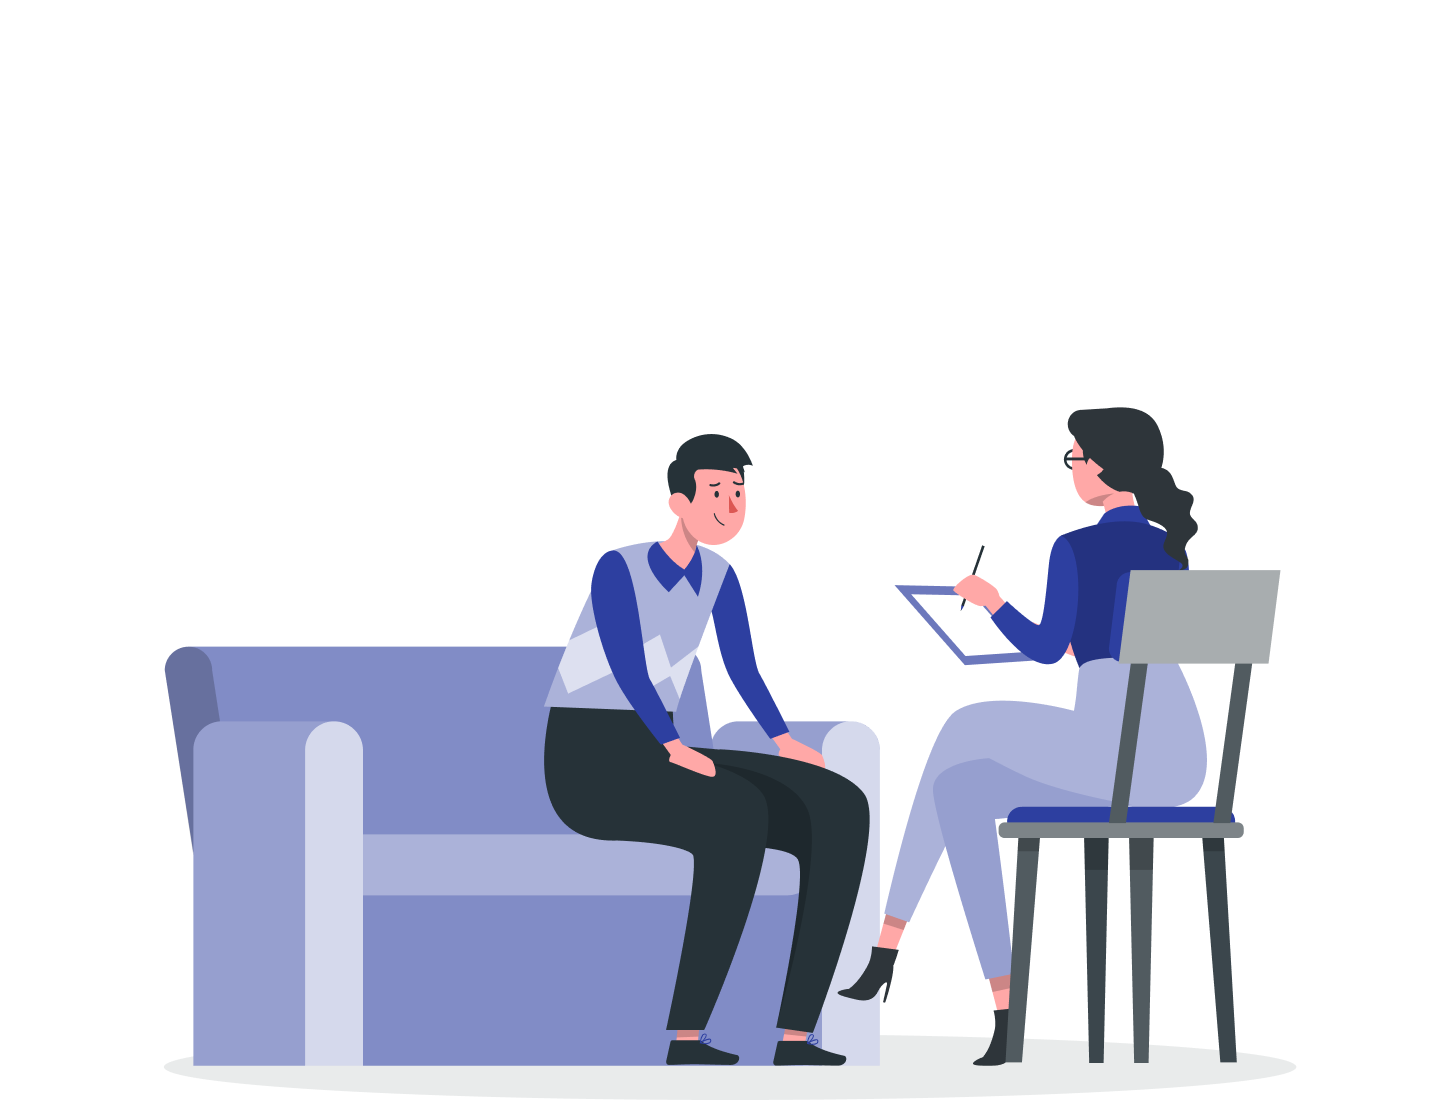
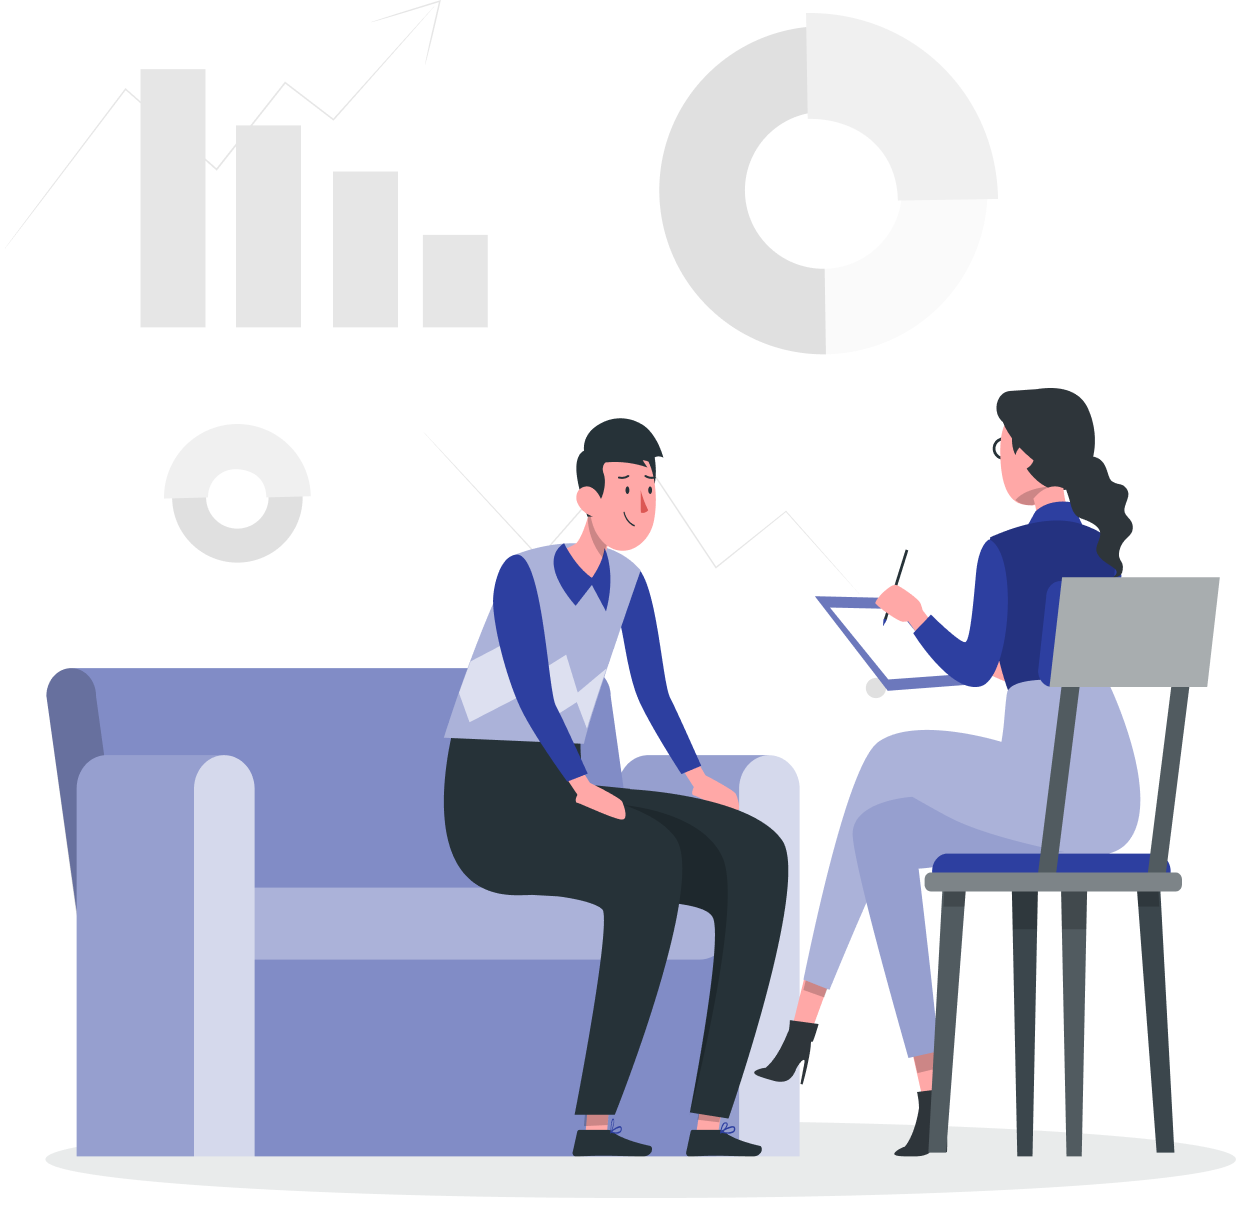
Added skip, next, get started button and dotsindicator to onboarding pages with functionality

diff --git a/lib/screens/onboarding/onboarding_page3.dart b/lib/screens/onboarding/onboarding_page3.dart
@@ -16,54 +16,56 @@ class OnboardingPage3 extends StatelessWidget {
                 height: 101.h,
               ),
               Padding(
-                padding: EdgeInsets.symmetric(vertical: 6.h),
+                padding: EdgeInsets.symmetric(horizontal: 61.w),
                 child: Image.asset(
                   "assets/images/o3.png",
                   height: 280.h,
                 ),
               ),
-              SizedBox(
-                height: 80.h,
-              ),
+              SizedBox(height: 48.h),
               Padding(
                 padding: EdgeInsets.symmetric(horizontal: 144.w),
                 child: Text(
                   "Services",
                   style: TextStyle(
-                      fontFamily: "OpenSans-Hebrew",
+                      fontFamily: 'OpenSans-Hebrew',
                       fontWeight: FontWeight.bold,
                       fontSize: 15.sp),
                 ),
               ),
-              SizedBox(
-                height: 29.h,
-              ),
+              SizedBox(height: 22.h),
               Padding(
-                padding: EdgeInsets.symmetric(horizontal: 30.w),
+                padding: EdgeInsets.symmetric(horizontal: 26.w),
                 child: Text(
-                  "    Provide 360-degree professional\n development for the students through\n Industry & Corporate Exposure, Career\n     Guidance and Work Experience",
-                  style: TextStyle(fontSize: 15.sp),
+                  "          Provide 360-degree professional development for students through Industry\n          Exposure and Career Guidance",
+                  style: TextStyle(
+                    fontSize: 15.sp,
+                    fontFamily: 'OpenSans-Hebrew',
+                  ),
                 ),
               ),
-              SizedBox(
-                height: 64.h,
-              ),
+              SizedBox(height: 135.h),
               Padding(
-                padding: EdgeInsets.symmetric(horizontal: 43.w),
-                child: Container(
-                    width: 274.w,
-                    height: 48.h,
-                    decoration: BoxDecoration(
-                        color: const Color.fromRGBO(57, 73, 160, 1),
-                        borderRadius: BorderRadius.circular(30)),
-                    child: const Center(
-                        child: Text('Get Started',
-                            style: TextStyle(
+                padding: EdgeInsets.only(left: 220.w, top: 45.h),
+                child: InkWell(
+                    onTap: () {},
+                    child: Container(
+                      height: 33.h,
+                      width: 89.w,
+                      decoration: BoxDecoration(
+                          color: const Color.fromRGBO(57, 73, 160, 1),
+                          borderRadius: BorderRadius.circular(10.0)),
+                      child: Center(
+                        child: Text(
+                          "Get Started >",
+                          style: TextStyle(
+                              fontSize: 11.sp,
                               color: Colors.white,
-                              fontWeight: FontWeight.bold,
-                              fontFamily: "OpenSans-Hebrew",
-                            )))),
-              )
+                              fontFamily: "OpenSans-Hebrew"),
+                        ),
+                      ),
+                    )),
+              ),
             ],
           ),
         ),

diff --git a/lib/screens/onboarding/onboarding.dart b/lib/screens/onboarding/onboarding.dart
@@ -1,0 +1,89 @@
+import 'package:ccpc/screens/auth/signup.dart';
+import 'package:ccpc/screens/onboarding/onboarding_page1.dart';
+import 'package:ccpc/screens/onboarding/onboarding_page2.dart';
+import 'package:flutter/material.dart';
+import 'package:flutter_screenutil/flutter_screenutil.dart';
+import 'package:introduction_screen/introduction_screen.dart';
+import 'package:ccpc/screens/onboarding/onboarding_page3.dart';
+
+class OnBoarding extends StatefulWidget {
+  const OnBoarding({Key? key}) : super(key: key);
+
+  @override
+  _OnBoardingState createState() => _OnBoardingState();
+}
+
+class _OnBoardingState extends State<OnBoarding> {
+  PageDecoration getPageDecoration() => PageDecoration(
+        titleTextStyle: TextStyle(
+            fontFamily: 'OpenSans-Hebrew',
+            fontWeight: FontWeight.bold,
+            fontSize: 15.sp),
+        bodyTextStyle: TextStyle(
+          fontSize: 15.sp,
+          fontFamily: 'OpenSans-Hebrew',
+        ),
+        descriptionPadding: const EdgeInsets.all(16).copyWith(bottom: 0),
+        imagePadding: const EdgeInsets.all(5),
+        pageColor: Colors.white,
+      );
+  void goToPage3(context) => Navigator.of(context).pushReplacement(
+        MaterialPageRoute(builder: (_) => const SignupPgae()),
+      );
+  PageController pageController = PageController();
+  @override
+  Widget build(BuildContext context) {
+    return MaterialApp(
+      debugShowCheckedModeBanner: false,
+      home: Scaffold(
+        backgroundColor: Colors.white,
+        body: IntroductionScreen(
+            animationDuration: 200,
+            rawPages: const [
+              OnboardingPage(),
+              OnboardingPage2(),
+              OnboardingPage3(),
+            ],
+            done: Text(
+              "DONE >",
+              style: TextStyle(
+                  fontSize: 12.sp,
+                  color: Colors.black,
+                  fontWeight: FontWeight.bold,
+                  fontFamily: "OpenSans-Hebrew"),
+            ),
+            next: Text(
+              "NEXT >",
+              style: TextStyle(
+                  color: Colors.black,
+                  fontSize: 12.sp,
+                  fontFamily: "OpenSans-Hebrew",
+                  fontWeight: FontWeight.bold),
+            ),
+            showSkipButton: true,
+            showDoneButton: false,
+            showNextButton: true,
+            skip: Text(
+              "SKIP",
+              style: TextStyle(
+                  color: Colors.black,
+                  fontFamily: "OpenSans-Hebrew",
+                  fontWeight: FontWeight.bold,
+                  fontSize: 12.sp),
+            ),
+            skipFlex: 0,
+            nextFlex: 0,
+            onDone: () => goToPage3(context),
+            dotsDecorator: DotsDecorator(
+                spacing: EdgeInsets.symmetric(horizontal: 3.w),
+                color: Colors.grey,
+                activeColor: Colors.black,
+                size: const Size(7, 7),
+                activeSize: const Size(7, 7),
+                activeShape: RoundedRectangleBorder(
+                  borderRadius: BorderRadius.circular(24),
+                ))),
+      ),
+    );
+  }
+}

diff --git a/lib/screens/onboarding/onboarding_page1.dart b/lib/screens/onboarding/onboarding_page1.dart
@@ -1,4 +1,3 @@
-import 'package:ccpc/screens/onboarding/onboarding_page2.dart';
 import 'package:flutter/material.dart';
 import 'package:flutter_screenutil/flutter_screenutil.dart';
 
@@ -35,20 +34,20 @@ class OnboardingPage extends StatelessWidget {
                   ),
                 ),
               ),
-              SizedBox(height: 29.h),
+              SizedBox(height: 22.h),
               Padding(
                 padding: EdgeInsets.symmetric(horizontal: 16.w),
                 child: RichText(
                   text: TextSpan(
                       text:
-                          "An IT & Management Consulting & Advisory \n                 Services company with a \n",
+                          "   An IT & Management Consulting & Advisory \n                    Services company with a \n",
                       style: TextStyle(
                           fontSize: 15.sp,
                           color: Colors.black,
                           fontFamily: 'OpenSans-Hebrew'),
                       children: <TextSpan>[
                         TextSpan(
-                          text: "                            'Social Cause'",
+                          text: "                              'Social Cause'",
                           style: TextStyle(
                               fontFamily: 'OpenSans-Hebrew',
                               fontSize: 15.sp,
@@ -59,50 +58,10 @@ class OnboardingPage extends StatelessWidget {
                       ]),
                 ),
               ),
-              SizedBox(height: 116.h),
-              Padding(
-                padding: EdgeInsets.symmetric(horizontal: 156.w),
-                child: ElevatedButton(
-                  onPressed: () {
-                    Navigator.push(
-                        context, FadeRoute(page: const OnboardingPage2()));
-                  },
-                  child: const Icon(Icons.arrow_forward_ios_rounded,
-                      color: Colors.white),
-                  style: ElevatedButton.styleFrom(
-                    shape: const CircleBorder(),
-                    padding: const EdgeInsets.all(15),
-                    primary: const Color.fromRGBO(57, 73, 160, 1),
-                  ),
-                ),
-              )
             ],
           ),
         ),
       ),
     );
   }
-}
-
-class FadeRoute extends PageRouteBuilder {
-  final Widget page;
-  FadeRoute({required this.page})
-      : super(
-          pageBuilder: (
-            BuildContext context,
-            Animation<double> animation,
-            Animation<double> secondaryAnimation,
-          ) =>
-              page,
-          transitionsBuilder: (
-            BuildContext context,
-            Animation<double> animation,
-            Animation<double> secondaryAnimation,
-            Widget child,
-          ) =>
-              FadeTransition(
-            opacity: animation,
-            child: child,
-          ),
-        );
 }

diff --git a/lib/screens/onboarding/onboarding_page2.dart b/lib/screens/onboarding/onboarding_page2.dart
@@ -1,4 +1,3 @@
-import 'package:ccpc/screens/onboarding/onboarding_page3.dart';
 import 'package:flutter/material.dart';
 import 'package:flutter_screenutil/flutter_screenutil.dart';
 
@@ -23,7 +22,7 @@ class OnboardingPage2 extends StatelessWidget {
                   height: 280.h,
                 ),
               ),
-              SizedBox(height: 64.h),
+              SizedBox(height: 48.h),
               Padding(
                 padding: EdgeInsets.symmetric(horizontal: 153.w),
                 child: Text(
@@ -38,57 +37,17 @@ class OnboardingPage2 extends StatelessWidget {
               Padding(
                 padding: EdgeInsets.symmetric(horizontal: 29.w),
                 child: Text(
-                  "    Helping millions of students for free,\n to get them job/ start-up/ business-ready,\n in time, to save on their 'struggle time' to\n   get a relevant job after their graduation.",
+                  "Helping millions of students for free, to get \n     them job/ business-ready after their\n                            graduation.",
                   style: TextStyle(
                     fontSize: 15.sp,
                     fontFamily: 'OpenSans-Hebrew',
                   ),
                 ),
               ),
-              SizedBox(height: 71.h),
-              Padding(
-                padding: EdgeInsets.symmetric(horizontal: 156.w),
-                child: ElevatedButton(
-                  onPressed: () {
-                    Navigator.push(
-                        context, FadeRoute(page: const OnboardingPage3()));
-                  },
-                  child: const Icon(Icons.arrow_forward_ios_rounded,
-                      color: Colors.white),
-                  style: ElevatedButton.styleFrom(
-                    shape: const CircleBorder(),
-                    padding: const EdgeInsets.all(15),
-                    primary: const Color.fromRGBO(57, 73, 160, 1),
-                  ),
-                ),
-              )
             ],
           ),
         ),
       ),
     );
   }
-}
-
-class FadeRoute extends PageRouteBuilder {
-  final Widget page;
-  FadeRoute({required this.page})
-      : super(
-          pageBuilder: (
-            BuildContext context,
-            Animation<double> animation,
-            Animation<double> secondaryAnimation,
-          ) =>
-              page,
-          transitionsBuilder: (
-            BuildContext context,
-            Animation<double> animation,
-            Animation<double> secondaryAnimation,
-            Widget child,
-          ) =>
-              FadeTransition(
-            opacity: animation,
-            child: child,
-          ),
-        );
 }

diff --git a/lib/ccpcapp.dart b/lib/ccpcapp.dart
@@ -1,4 +1,5 @@
 import 'package:flutter/material.dart';
+import 'package:flutter/services.dart';
 import 'package:flutter_screenutil/flutter_screenutil.dart';
 
 import './utils/app_theme.dart';
@@ -9,6 +10,10 @@ class CCPCApp extends StatelessWidget {
 
   @override
   Widget build(BuildContext context) {
+    SystemChrome.setPreferredOrientations([
+      DeviceOrientation.portraitUp,
+      DeviceOrientation.portraitDown,
+    ]);
     return ScreenUtilInit(
       builder: () {
         return MaterialApp(

diff --git a/lib/utils/navigation.dart b/lib/utils/navigation.dart
@@ -1,10 +1,10 @@
 import 'package:flutter_modular/flutter_modular.dart';
-import '../screens/onboarding/onboarding_page1.dart';
+import '../screens/onboarding/onboarding.dart';
 
 class BaseNavigation extends Module {
   @override
   final List<ModularRoute> routes = [
     ChildRoute(Modular.initialRoute,
-        child: (context, args) => const OnboardingPage()),
+        child: (context, args) => const OnBoarding()),
   ];
 }

diff --git a/lib/screens/auth/signup.dart b/lib/screens/auth/signup.dart
@@ -1,0 +1,10 @@
+import 'package:flutter/material.dart';
+
+class SignupPgae extends StatelessWidget {
+  const SignupPgae({Key? key}) : super(key: key);
+
+  @override
+  Widget build(BuildContext context) {
+    return Container();
+  }
+}
